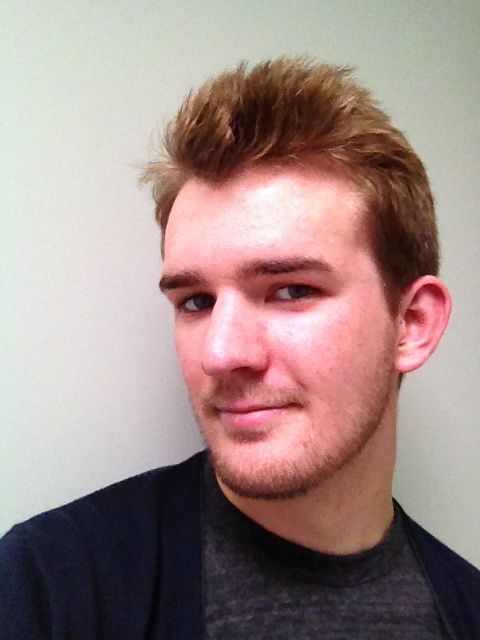
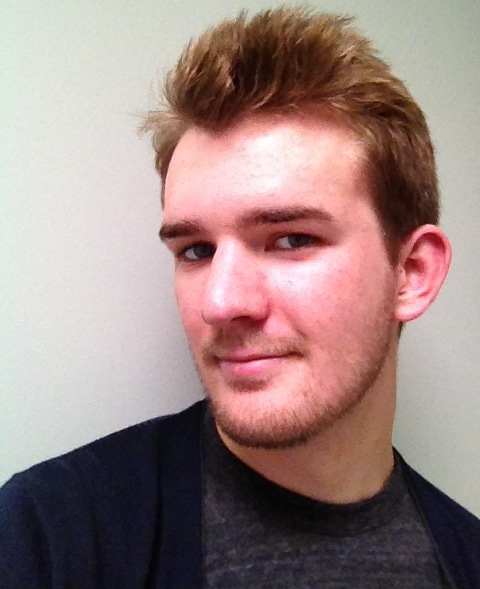
adding picture of me to home page
Created a new layout file for home page

diff --git a/_layouts/home.html b/_layouts/home.html
@@ -2,7 +2,10 @@
 <html>
 <head>
   {% include head.html %}
-  {% include head.html %}
+  <img src="/images/IMG_01.jpg";
+  style="
+    width: 15%;"
+  alt="Oh no! where am I?">
 </head>
 <body>
 

diff --git a/_includes/home.html b/_includes/home.html
@@ -1,3 +1,6 @@
+---
+layout: home
+---
 <h2><a href="/Resume">Resume</a></h2>
 <h2>Blog...</h2>
 

diff --git a/index.html b/index.html
@@ -1,5 +1,5 @@
 ---
-layout: default
+layout: home
 title: Taylor Lee's Personal Webpage
 ---
 

diff --git a/Resume/index.html b/Resume/index.html
@@ -1,5 +1,5 @@
 ---
-layout: default
+layout: home
 title: Resume
 categories: resume
 ---
